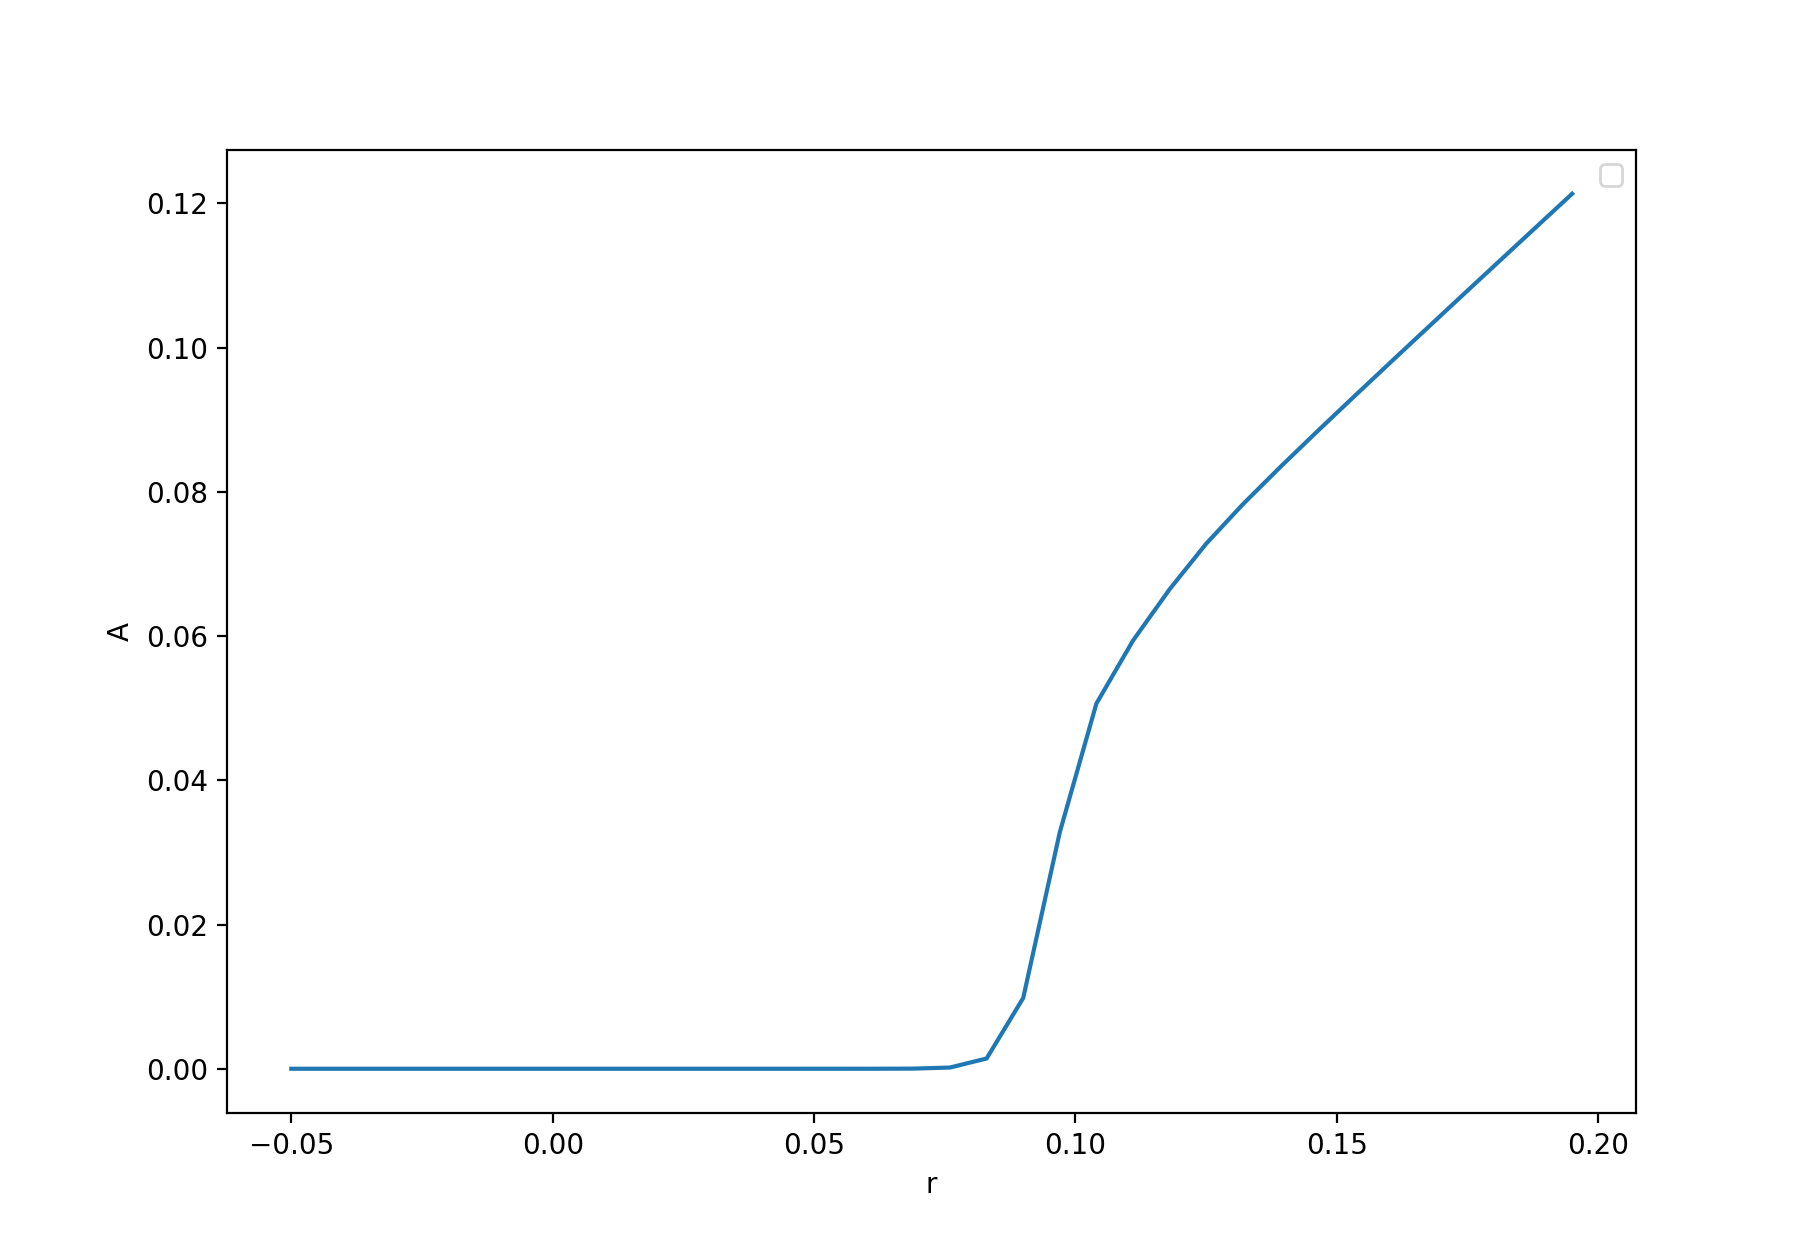
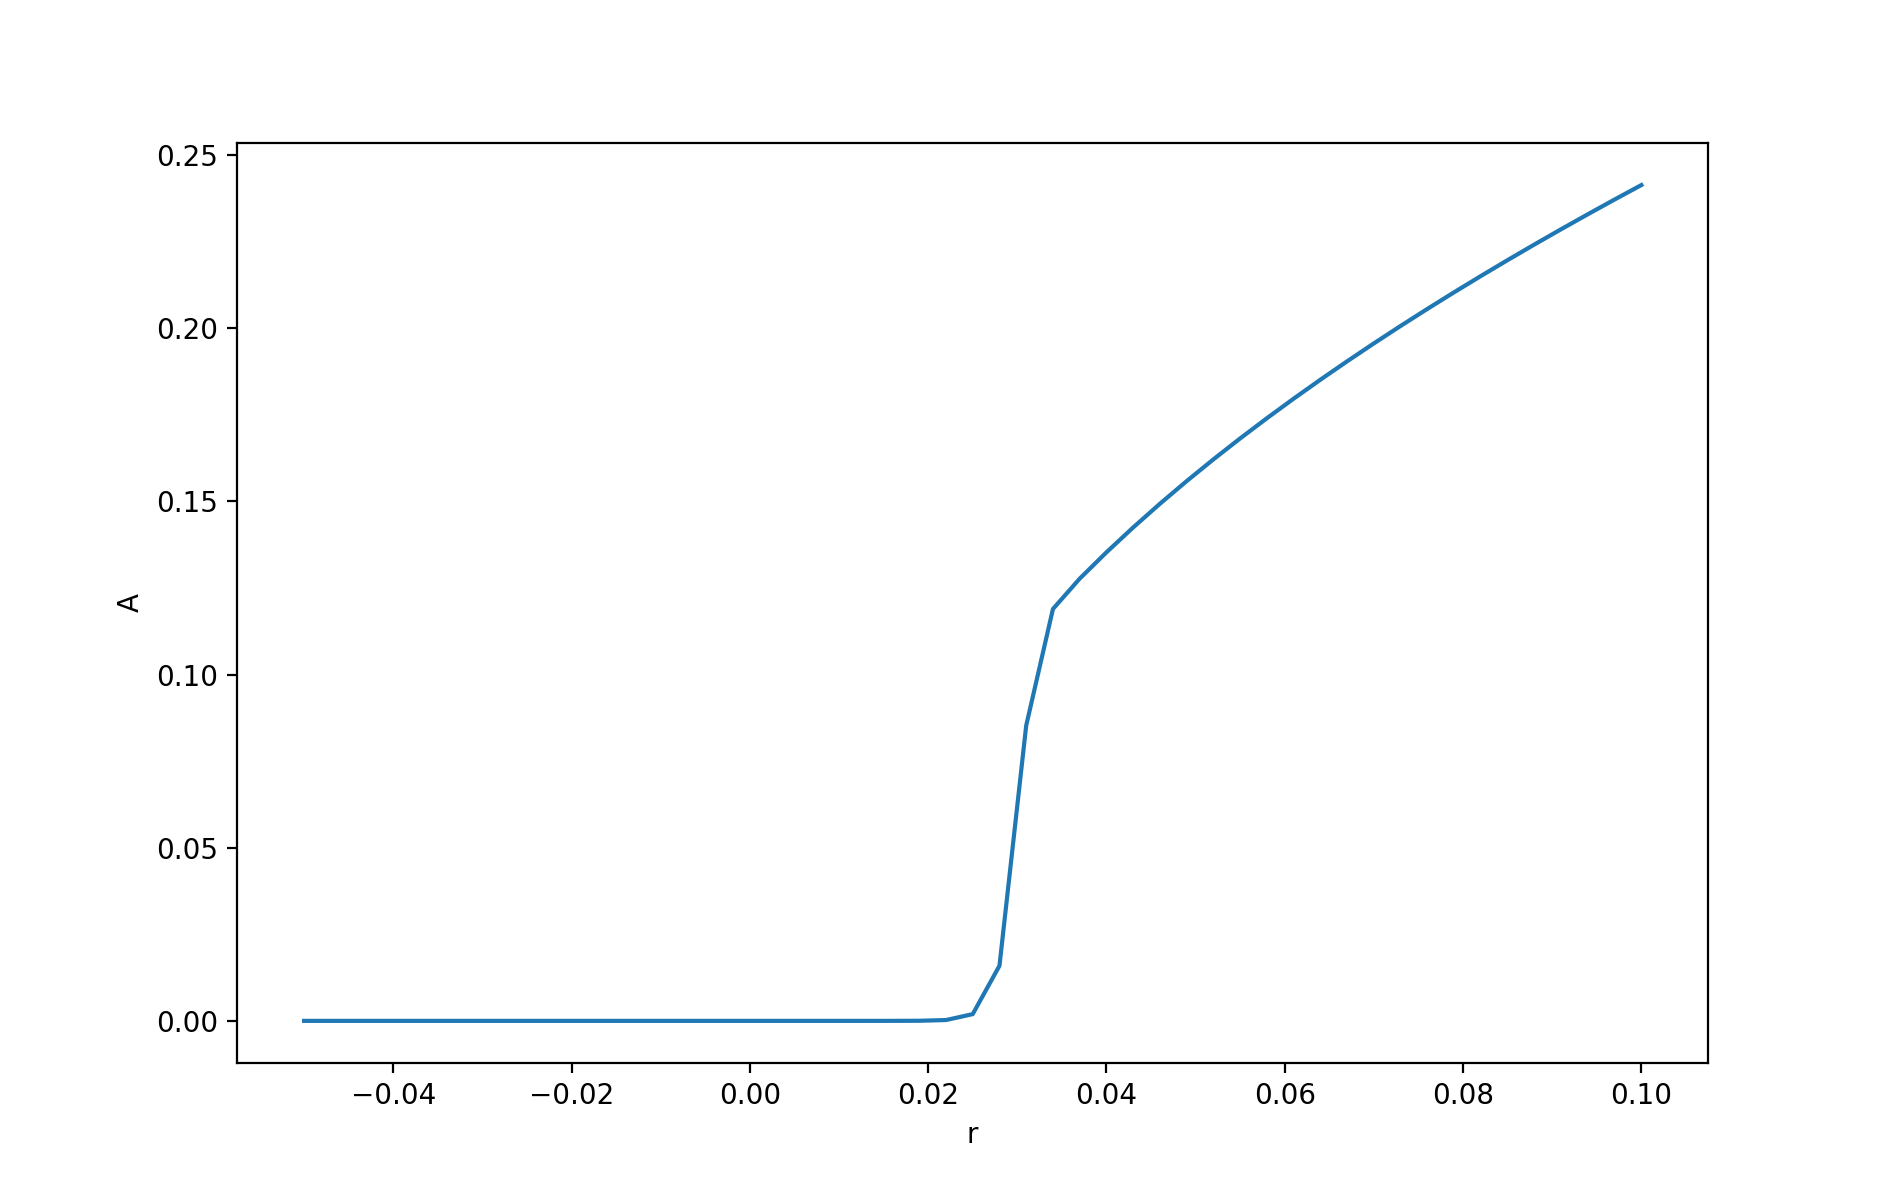
Ajustement param

diff --git a/pattern.py b/pattern.py
@@ -299,8 +299,8 @@ def L_effect(u0, L_range):
 
 def A_mesure(f0,r,L):
     N = 1024
-    dt = 0.07
-    T = 500.01
+    dt = 0.03
+    T = 700.01
     M = int(T/dt) + 1
     h = L/N
 
@@ -385,7 +385,7 @@ def r_bifurcation(u0, r_range):
 
     return integ
 
-r_bifurcation(u_0, np.arange(0.025,0.14,0.001))
+r_bifurcation(u_0, np.arange(-0.02,0.1,0.004))
 
 
 
